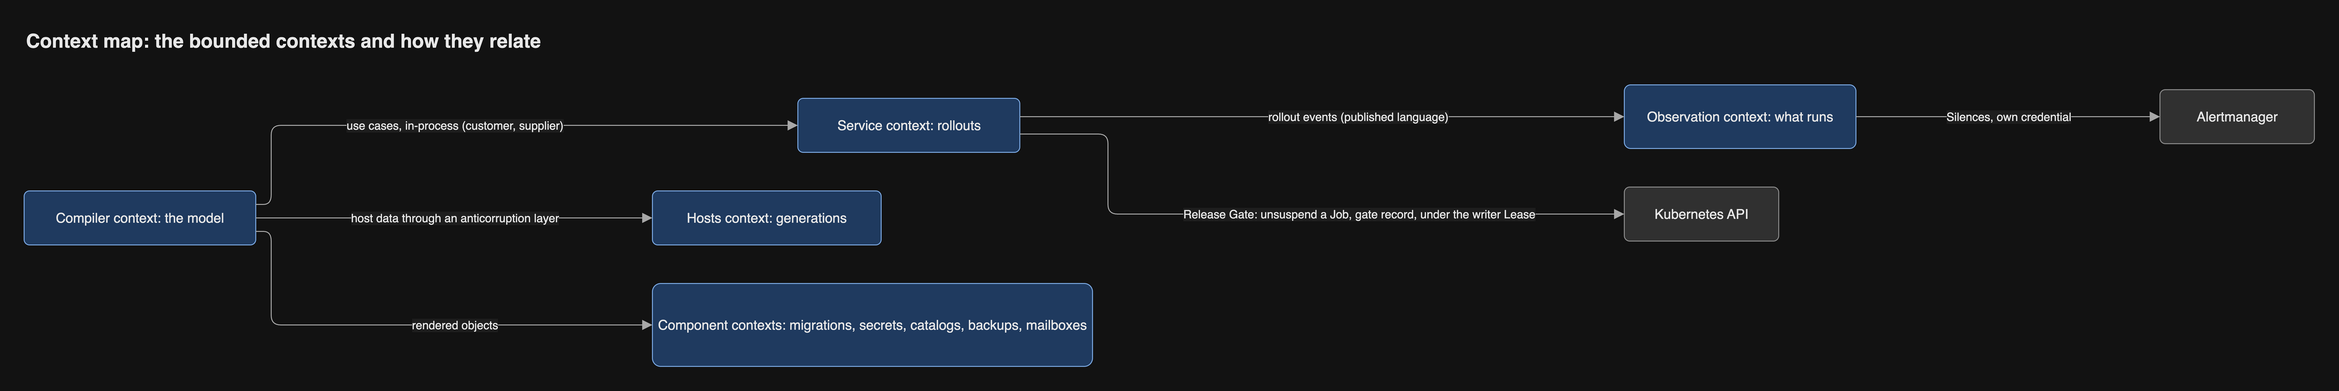
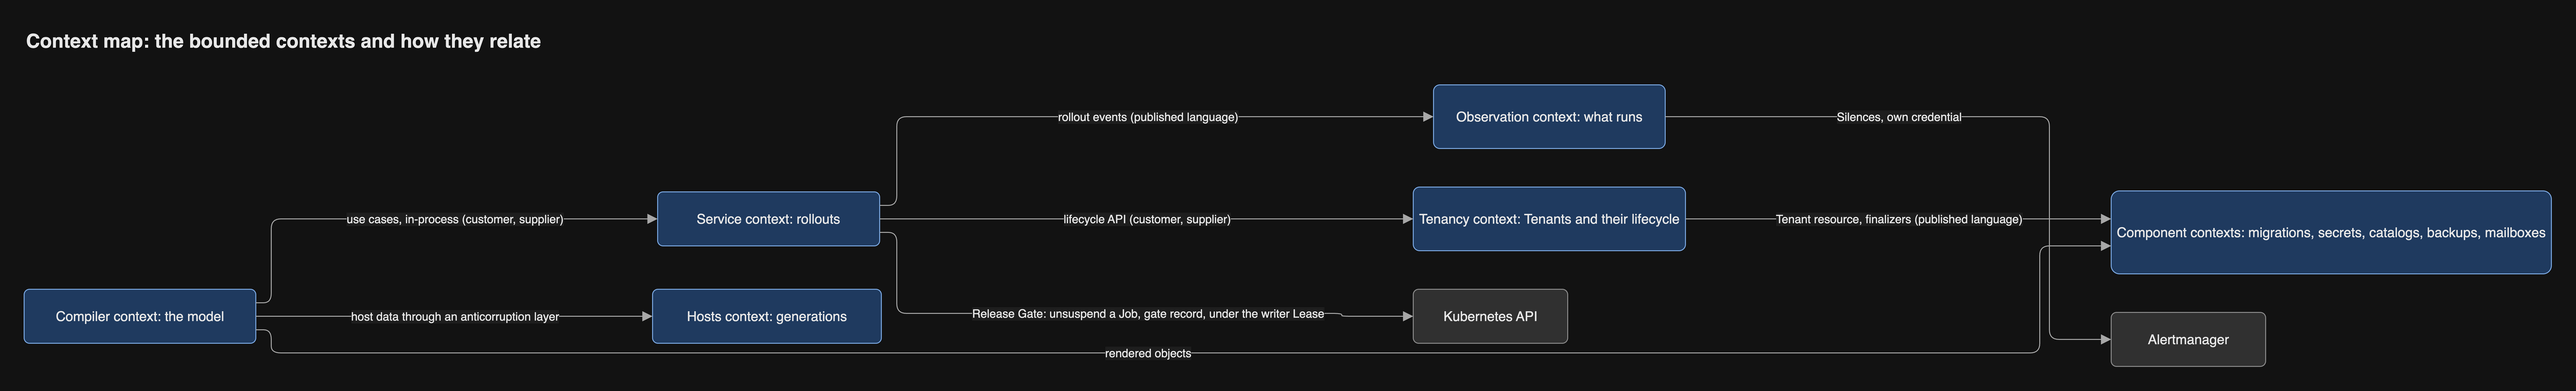
docs: a Tenant is a custom resource in a sixth bounded context, tenancy

diff --git a/docs/diagrams/specs.py b/docs/diagrams/specs.py
@@ -164,6 +164,12 @@ states("state-host-applier", "State machine: the host applier on one node",
        labels={"WaitingForLease": "Waiting for the Lease", "HealthCheck": "Health check",
                "CurrentNew": "Current (new generation)", "RolledBack": "Rolled back to the previous generation"},
        tones={"CurrentNew": "good", "RolledBack": "bad", "Staged": "warn"})
+states("state-tenant", "State machine: a Tenant",
+       [("[*]", "Active", "create"), ("Active", "TenantLock", "lock or move"), ("TenantLock", "Active", "unlock"),
+        ("Active", "Suspended", "suspend"), ("Suspended", "Active", "resume"),
+        ("Suspended", "Purged", "grace period ends, every finalizer released"), ("Purged", "[*]", "")],
+       labels={"TenantLock": "Tenant lock"},
+       tones={"Suspended": "warn", "TenantLock": "warn", "Purged": "bad"})
 states("state-mailbox", "State machine: a Mailbox",
        [("[*]", "Declared", ""), ("Declared", "Provisioned", "account created"),
         ("Declared", "Refused", "local part claimed by another Project"),
@@ -610,10 +616,13 @@ g.box("service", "Service context: rollouts", tone="accent")
 g.box("observation", "Observation context: what runs", tone="accent")
 g.box("applier", "Hosts context: generations", tone="accent")
 g.box("components", "Component contexts: migrations, secrets, catalogs, backups, mailboxes", tone="accent")
+g.box("tenancy", "Tenancy context: Tenants and their lifecycle", tone="accent")
 g.edge("compiler", "service", "use cases, in-process (customer, supplier)")
 g.edge("service", "observation", "rollout events (published language)")
 g.edge("compiler", "applier", "host data through an anticorruption layer")
 g.edge("compiler", "components", "rendered objects")
+g.edge("service", "tenancy", "lifecycle API (customer, supplier)")
+g.edge("tenancy", "components", "Tenant resource, finalizers (published language)")
 g.box("api", "Kubernetes API", tone="external")
 g.box("alert", "Alertmanager", tone="external")
 g.edge("service", "api", "Release Gate: unsuspend a Job, gate record, under the writer Lease")

diff --git a/docs/decisions/0080-a-tenant-is-a-custom-resource-in-a-sixth-bounded-context-tenancy.md b/docs/decisions/0080-a-tenant-is-a-custom-resource-in-a-sixth-bounded-context-tenancy.md
@@ -1,0 +1,103 @@
+---
+status: proposed  # proposed | accepted | locked
+date: 2026-11-01
+rests-on: [17, 23, 50, 63, 76, 78, 79]
+lessons: [DO-2, CS-3, TM-4]
+---
+
+# A Tenant is a custom resource that platform components reconcile, with Tenant hooks and finalizers, in a sixth bounded context, tenancy
+
+## Context
+
+[Record 76](0076-tenants-are-the-organisations-the-estate-serves.md) makes the
+Tenant a thing the estate serves, [record 78](0078-a-multi-tenant-project-keeps-one-tenant-database-per-tenant.md)
+gives each multi-tenant Project a Tenant database per Tenant, and
+[record 79](0079-the-tenant-of-a-request-comes-only-from-the-signed-principal.md)
+says every request names one Tenant. Nothing yet says where a Tenant lives,
+who may change it, or how a Purge knows that every system has let go of the
+Tenant's data. Adding, locking, moving or removing a Tenant touches the
+database catalog, identity, the mailbox, backups and secret grants, and a
+crash halfway must leave something to finish, not to repair.
+
+[Record 63](0063-the-service-has-one-writer-and-reconciles-from-observed-state.md)
+gives the estate-kit service the one write path to the cluster, and
+[record 23](0023-a-rollout-is-an-append-only-event-log-on-the-shared-postgres.md)
+keeps a rollout as an append-only log on the shared platform-postgres.
+[Record 50](0050-five-bounded-contexts.md) names five bounded contexts, none of
+which owns the lifecycle of a Tenant. [Record 17](0017-the-service-runs-in-the-cluster-in-rust.md)
+puts the service in the cluster, where a custom resource and its reconcilers
+are native.
+
+## Decision
+
+A Tenant is a custom resource, one per Tenant in its Environment. Only the
+estate-kit service writes it, under the one-writer rule of
+[record 63](0063-the-service-has-one-writer-and-reconciles-from-observed-state.md).
+The platform components that hold the Tenant's data (database-catalog,
+identity, mailbox, backup and secret-grant) reconcile it, and each holds a
+finalizer on it. A Purge completes only when every participant has cleaned up
+and released its finalizer, so a Tenant is never half-purged without the
+maintainer knowing.
+
+A sixth bounded context, tenancy, holds the Tenant model and the Tenant
+operations: create, add a Project, remove a Project, lock, unlock, suspend,
+resume, purge and move. This amends
+[record 50](0050-five-bounded-contexts.md): the workspace is six contexts, and
+the rest of that record, the layers and the check that holds them, stands. The
+tenancy context talks to the others through the same kinds of edge, and
+`crates/layers.toml` stays the one place the allowed edges are written.
+
+Every Tenant operation is idempotent and safe to retry. Each step, with its
+full error output, goes to an append-only operation log on the shared
+platform-postgres, in the manner of
+[record 23](0023-a-rollout-is-an-append-only-event-log-on-the-shared-postgres.md).
+The lifecycle API is part of the service's OpenAPI contract. The maintainer
+calls it from the estate UI or CLI, and a product's sign-up flow can call it
+with the same lifecycle.
+
+A multi-tenant Application takes part through the Tenant hooks it declares:
+after-create, lock, unlock, prepare-restore and after-restore. The tenancy
+context calls a hook over HTTP with a signed machine token, the Tenant key and
+an operation id. A failed lock or prepare-restore hook aborts the operation
+before any data changes. A failed after hook flags the Tenant and the
+operation log. An Application implements only the hooks it declares.
+
+During a Tenant lock the Gate serves a standard maintenance page and a 503
+with a Retry-After header, and the shared libraries hold the Tenant's work.
+Destroying is Suspend, then a grace period, then Purge. A Tenant is Active,
+under a Tenant lock, Suspended or purged; the diagram on the design page
+shows the moves.
+
+## Alternatives
+
+| Option | Cost if taken | Why rejected |
+| --- | --- | --- |
+| Tenants as rows in the service's Postgres only | Each component polls or is called by the service, and a crash leaves no object that says what remains | A custom resource gives each component one object to reconcile and a finalizer to hold; the operation log still records the history |
+| A Tenant created by any component or by a sign-up flow directly | Two writers of one Tenant; a sign-up flow holds cluster credentials | One writer ([record 63](0063-the-service-has-one-writer-and-reconciles-from-observed-state.md)); the sign-up flow calls the service's API |
+| Purge as one service call that deletes everywhere | A component that fails leaves its data behind with nothing to show it | Finalizers make a Purge complete only when every participant has finished |
+| Tenancy inside the Service context | The lifecycle and the rollout core share one model and one change rate | A separate context keeps the Tenant model and its deciders apart, with its own crates and edges |
+| Hooks as a message on RabbitMQ | A lock cannot abort on failure; an Application needs a consumer | A hook must answer before data changes, so it is a call with a result |
+| Hooks every Application must implement | Each Application codes steps it has no use for | An Application implements only the hooks it declares |
+
+## Consequences
+
+- Easier: one object shows a Tenant's state; a Purge cannot finish early; a
+  crash during an operation is finished by retrying it; a sign-up flow needs no
+  second lifecycle.
+- Harder: the custom resource definition is a contract that each reconciling
+  component follows; five components each carry a finalizer and must release
+  it correctly; the service gains a context, a log table and an API surface.
+- Forbidden: any writer of a Tenant other than the service; a Purge that
+  completes while a finalizer remains; a lock or prepare-restore that changes
+  data after its hook failed; an update or delete of an operation log row.
+
+## Confirmation
+
+The **Tenant finalizer Purge** check shows a Purge that completes only after
+every participant has released its finalizer. The **Tenant hook abort** check
+shows that a failed lock or prepare-restore hook stops the operation before any
+data changes. The **Tenant one writer** check shows that no identity other than
+the service's can write a Tenant. The **Operation log append-only** check shows
+that an update or delete of an operation log row is refused. The
+**`cargo xtask check-layers`** check holds the tenancy context to its allowed
+edges.

diff --git a/docs/design/code-shape-and-speed.md b/docs/design/code-shape-and-speed.md
@@ -98,7 +98,7 @@ such as a review rule, is written without a bold name.
 | --- | --- | --- | --- | --- |
 | Records | A record's status, rests-on, lessons or Confirmation breaks the register's rules, or a Confirmation names a check that is not in this table | every record | CI job Records (`scripts/check_records.py`) | runs today |
 | Links | A relative link or anchor does not resolve | [59](../decisions/0059-vault-unseal-and-datastore-backup-are-assumed-from-fleet-infra.md) | CI job Links | runs today |
-| `cargo xtask check-layers` | A crate edge the layers file does not allow, a member that is not Rust, or a compiler crate that depends on a cluster client, a clock or an adapter; one failing fixture workspace per rule | [6](../decisions/0006-every-render-is-a-function-of-pinned-inputs.md), [13](../decisions/0013-every-program-is-rust.md), [14](../decisions/0014-the-compiler-is-a-chain-of-typed-models-one-crate-per-step.md), [18](../decisions/0018-the-service-links-the-compiler.md), [50](../decisions/0050-five-bounded-contexts.md) | xtask, Lint job | [#60](https://github.com/JorisJonkers-dev/estate-kit/issues/60) |
+| `cargo xtask check-layers` | A crate edge the layers file does not allow, a member that is not Rust, or a compiler crate that depends on a cluster client, a clock or an adapter; one failing fixture workspace per rule | [6](../decisions/0006-every-render-is-a-function-of-pinned-inputs.md), [13](../decisions/0013-every-program-is-rust.md), [14](../decisions/0014-the-compiler-is-a-chain-of-typed-models-one-crate-per-step.md), [18](../decisions/0018-the-service-links-the-compiler.md), [50](../decisions/0050-five-bounded-contexts.md), [80](../decisions/0080-a-tenant-is-a-custom-resource-in-a-sixth-bounded-context-tenancy.md) | xtask, Lint job | [#60](https://github.com/JorisJonkers-dev/estate-kit/issues/60) |
 | Workspace version check | A member sets its own `version` instead of inheriting the workspace's | [34](../decisions/0034-every-part-of-estate-kit-lives-in-this-repository-at-one-version.md) | xtask, Lint job | [#60](https://github.com/JorisJonkers-dev/estate-kit/issues/60) |
 | Port contract script | A port trait has no `Fake<Port>` or no `<port>_contract`, or the suite is not called from both the fake's tests and an adapter's integration tests; one failing fixture per rule | [68](../decisions/0068-every-fake-passes-its-port-s-contract-suite.md) | Lint job | [#60](https://github.com/JorisJonkers-dev/estate-kit/issues/60) |
 | Compiler dependency bans | A compiler crate depends on `tokio`, `reqwest` or an adapter crate (cargo-deny bans), or uses `std::env`, `std::fs` or `SystemTime::now` (clippy `disallowed-methods`) | [18](../decisions/0018-the-service-links-the-compiler.md) | Lint job | [#60](https://github.com/JorisJonkers-dev/estate-kit/issues/60) |
@@ -187,6 +187,10 @@ such as a review rule, is written without a bold name.
 | Tenant host derivation test | A derived Tenant host differs from the rule for its Environment, or sits more than one level below its Product domain | [77](../decisions/0077-product-domains-are-admitted-by-platform-intent.md) | CI, compiler tests | [#62](https://github.com/JorisJonkers-dev/estate-kit/issues/62) |
 | Host lookup test | A host resolves to a Tenant by any route but the lookup, such as parsing the host | [77](../decisions/0077-product-domains-are-admitted-by-platform-intent.md) | CI, contract suite of the lookup port | [#64](https://github.com/JorisJonkers-dev/estate-kit/issues/64) |
 | Estate name check | The estate name in Platform Intent is longer than 32 characters or not DNS-style | [77](../decisions/0077-product-domains-are-admitted-by-platform-intent.md) | CI, over `contracts/` | [#61](https://github.com/JorisJonkers-dev/estate-kit/issues/61) |
+| Tenant finalizer Purge | A Purge completes while any participant still holds its finalizer on the Tenant, or a participant releases it before its cleanup is done | [80](../decisions/0080-a-tenant-is-a-custom-resource-in-a-sixth-bounded-context-tenancy.md) | End-to-end job | [#72](https://github.com/JorisJonkers-dev/estate-kit/issues/72) |
+| Tenant hook abort | A failed lock or prepare-restore hook lets the operation change data, or a failed after hook leaves the Tenant unflagged | [80](../decisions/0080-a-tenant-is-a-custom-resource-in-a-sixth-bounded-context-tenancy.md) | End-to-end job | [#72](https://github.com/JorisJonkers-dev/estate-kit/issues/72) |
+| Tenant one writer | A credential other than the estate-kit service's can create, update or delete a Tenant | [80](../decisions/0080-a-tenant-is-a-custom-resource-in-a-sixth-bounded-context-tenancy.md) | End-to-end job | [#64](https://github.com/JorisJonkers-dev/estate-kit/issues/64) |
+| Operation log append-only | The service's database role can update or delete a row of the operation log | [80](../decisions/0080-a-tenant-is-a-custom-resource-in-a-sixth-bounded-context-tenancy.md) | End-to-end job | [#64](https://github.com/JorisJonkers-dev/estate-kit/issues/64) |
 
 ## Mutation testing
 

diff --git a/docs/design/rust-workspace.md b/docs/design/rust-workspace.md
@@ -63,6 +63,12 @@ of the read code. The allowed context edges are not decided on this page:
 `crates/layers.toml` holds them and `check-layers` reads that file. A Project is the aggregate root in the
 compiler; a Rollout is the aggregate root in the service.
 
+A sixth context, **Tenancy**, holds the Tenant model and the Tenant operations
+([record 80](../decisions/0080-a-tenant-is-a-custom-resource-in-a-sixth-bounded-context-tenancy.md),
+which amends [record 50](../decisions/0050-five-bounded-contexts.md)). A Tenant
+is its aggregate root. The layers and the check that holds them are unchanged;
+`crates/layers.toml` still holds the edges.
+
 | Context | Owns | Aggregate roots | Talks to others through |
 | --- | --- | --- | --- |
 | Compiler | The model: Intent in, Resolved Deployment, Deliverable Set out | Project; the Estate is the set of admitted Projects | Its application crate's use cases (`validate`, `plan`, `compose`, `render_hosts`, `generate`) |
@@ -70,6 +76,7 @@ compiler; a Rollout is the aggregate root in the service.
 | Observation | What runs and how it is doing: units, pods, containers, alerts and silences, logs, health, checks | None: read models only, and Silences as its one write | Ports onto Prometheus, Loki, Alertmanager, Gatus and the cluster; rollout history from the Service's API |
 | Hosts | Generations and their rollout across nodes | NodeRollout | Signed host tags only; never a model type |
 | Components | Migration runs, secret grants, database and bucket catalogs, backups, Mailboxes | One per component: MigrationRun, SecretGrant, DatabaseGrant, BucketGrant, BackupGeneration, Mailbox | Rendered objects only |
+| Tenancy | Tenants and their Tenant operations, Tenant hooks, the operation log | Tenant | The Tenant custom resource, which the Components reconcile; the lifecycle API on the Service's HTTP surface |
 
 The context map, with the result.json edge replaced by an in-process call:
 
@@ -82,6 +89,8 @@ The context map, with the result.json edge replaced by an in-process call:
 | Compiler | Components | Published language | The rendered objects' committed schemas |
 | Service | Observation | Published language | Rollout events, read from the Service's HTTP API (the OpenAPI document), not its event store |
 | identity | Service, Observation | Conformist | rust-commons' `Principal` |
+| Tenancy | Components | Published language | The Tenant custom resource and its finalizers |
+| Service | Tenancy | Customer and supplier | The lifecycle API in the OpenAPI document |
 
 ## Layers
 

diff --git a/docs/design/tenancy.md b/docs/design/tenancy.md
@@ -93,10 +93,15 @@ Locked by default once written.
 
 ## The Tenant resource
 
-Planned as row 80 of the [register](../decisions/register.md), filled by
-[#144](https://github.com/JorisJonkers-dev/estate-kit/issues/144). A Tenant as a custom resource, Tenant hooks and finalizers, and the sixth bounded context. Amends [record 50](../decisions/0050-five-bounded-contexts.md).
+Decided in [record 80](../decisions/0080-a-tenant-is-a-custom-resource-in-a-sixth-bounded-context-tenancy.md), which amends [record 50](../decisions/0050-five-bounded-contexts.md): the workspace has six bounded contexts, and tenancy is the sixth.
 
-_Empty until its record is written._
+A Tenant is a custom resource, one per Tenant in its Environment. Only the estate-kit service writes it. The platform components that hold the Tenant's data (database-catalog, identity, mailbox, backup and secret-grant) reconcile it, and each holds a finalizer, so a Purge completes only when every one has cleaned up.
+
+The tenancy context holds the Tenant model and the Tenant operations: create, add or remove a Project, lock, unlock, suspend, resume, purge and move. Every operation is safe to retry. Each step, with its full error output, goes to an append-only operation log on the shared platform-postgres. The lifecycle API is part of the service's OpenAPI contract, and the maintainer and a product's sign-up flow both call it.
+
+A multi-tenant Application takes part through the Tenant hooks it declares: after-create, lock, unlock, prepare-restore and after-restore. A hook is an HTTP call with a signed machine token, the Tenant key and an operation id. A failed lock or prepare-restore hook aborts before any data changes; a failed after hook flags the Tenant. During a Tenant lock the Gate serves a standard maintenance page and a 503 with Retry-After, and the libraries hold the Tenant's work. Destroying is Suspend, a grace period, then Purge.
+
+![State machine: a Tenant](../diagrams/png/state-tenant.png)
 
 ## Migrations
 

diff --git a/docs/decisions/register.md b/docs/decisions/register.md
@@ -85,7 +85,7 @@ The [design review](../research/review/README.md) of 2026-10-22 changed or added
 | 77 | [Product domains are admitted by Platform Intent and named by a Project, and Tenant hosts are derived from them](0077-product-domains-are-admitted-by-platform-intent.md) | Proposed |
 | 78 | [A multi-tenant Project keeps one Tenant database per Tenant, on a Database server recorded with the Tenant](0078-a-multi-tenant-project-keeps-one-tenant-database-per-tenant.md) | Proposed |
 | 79 | [The Tenant of a request comes only from the Gate's signed principal, one request or message names exactly one Tenant, and a Causation id ties traces together](0079-the-tenant-of-a-request-comes-only-from-the-signed-principal.md) | Proposed |
-| 80 | A Tenant is a custom resource that platform components reconcile, with Tenant hooks and finalizers, in a sixth bounded context, tenancy | Proposed |
+| 80 | [A Tenant is a custom resource that platform components reconcile, with Tenant hooks and finalizers, in a sixth bounded context, tenancy](0080-a-tenant-is-a-custom-resource-in-a-sixth-bounded-context-tenancy.md) | Proposed |
 | 81 | Migrations reach Tenant databases in waves that continue past failure, a Behind database blocks the next release, and multi-tenant Projects use managed Liquibase migrations | Proposed |
 | 82 | Backups are per-Tenant generations on per-Tenant schedules, kept in a central catalogue, and Mirrors refresh staging and development Tenants | Proposed |
 | 83 | [Secrets are scoped by environment in their Vault path, and Tenant secrets live beneath their Project](0083-secrets-are-scoped-by-environment-and-tenant-secrets-live-beneath-their-project.md) | Proposed |

diff --git a/docs/SUMMARY.md b/docs/SUMMARY.md
@@ -74,6 +74,7 @@
   - [77. Product domains are admitted by Platform Intent](decisions/0077-product-domains-are-admitted-by-platform-intent.md)
   - [78. A multi-tenant Project keeps one Tenant database per Tenant](decisions/0078-a-multi-tenant-project-keeps-one-tenant-database-per-tenant.md)
   - [79. The Tenant of a request comes only from the signed principal](decisions/0079-the-tenant-of-a-request-comes-only-from-the-signed-principal.md)
+  - [80. A Tenant is a custom resource in a sixth bounded context, tenancy](decisions/0080-a-tenant-is-a-custom-resource-in-a-sixth-bounded-context-tenancy.md)
   - [83. Secrets are scoped by environment, and Tenant secrets live beneath their Project](decisions/0083-secrets-are-scoped-by-environment-and-tenant-secrets-live-beneath-their-project.md)
 - [Lesson candidates](lesson-candidates.md)
 - [Diagrams](diagrams/README.md)

diff --git a/CONTEXT.md b/CONTEXT.md
@@ -233,6 +233,10 @@ _Avoid_: disabled, deactivated, frozen
 The end of a Tenant: its Tenant databases, cache keys, stored objects, Tenant secrets, mail domain and Memberships are removed everywhere. Its Backup generations then expire under their normal retention.
 _Avoid_: delete, destroy, offboard
 
+**Tenant operation**:
+One lifecycle action on a Tenant: create, add a Project, remove a Project, lock, unlock, suspend, resume, purge or move. The tenancy context runs it across every system that holds the Tenant's data, and records each step with its full error output in one operation log.
+_Avoid_: job, task, workflow
+
 **Mailbox**:
 An email address an Application declares by its local part. The same local part declared twice within one Project names one shared Mailbox; across Projects it is refused.
 _Avoid_: email account, mail user
